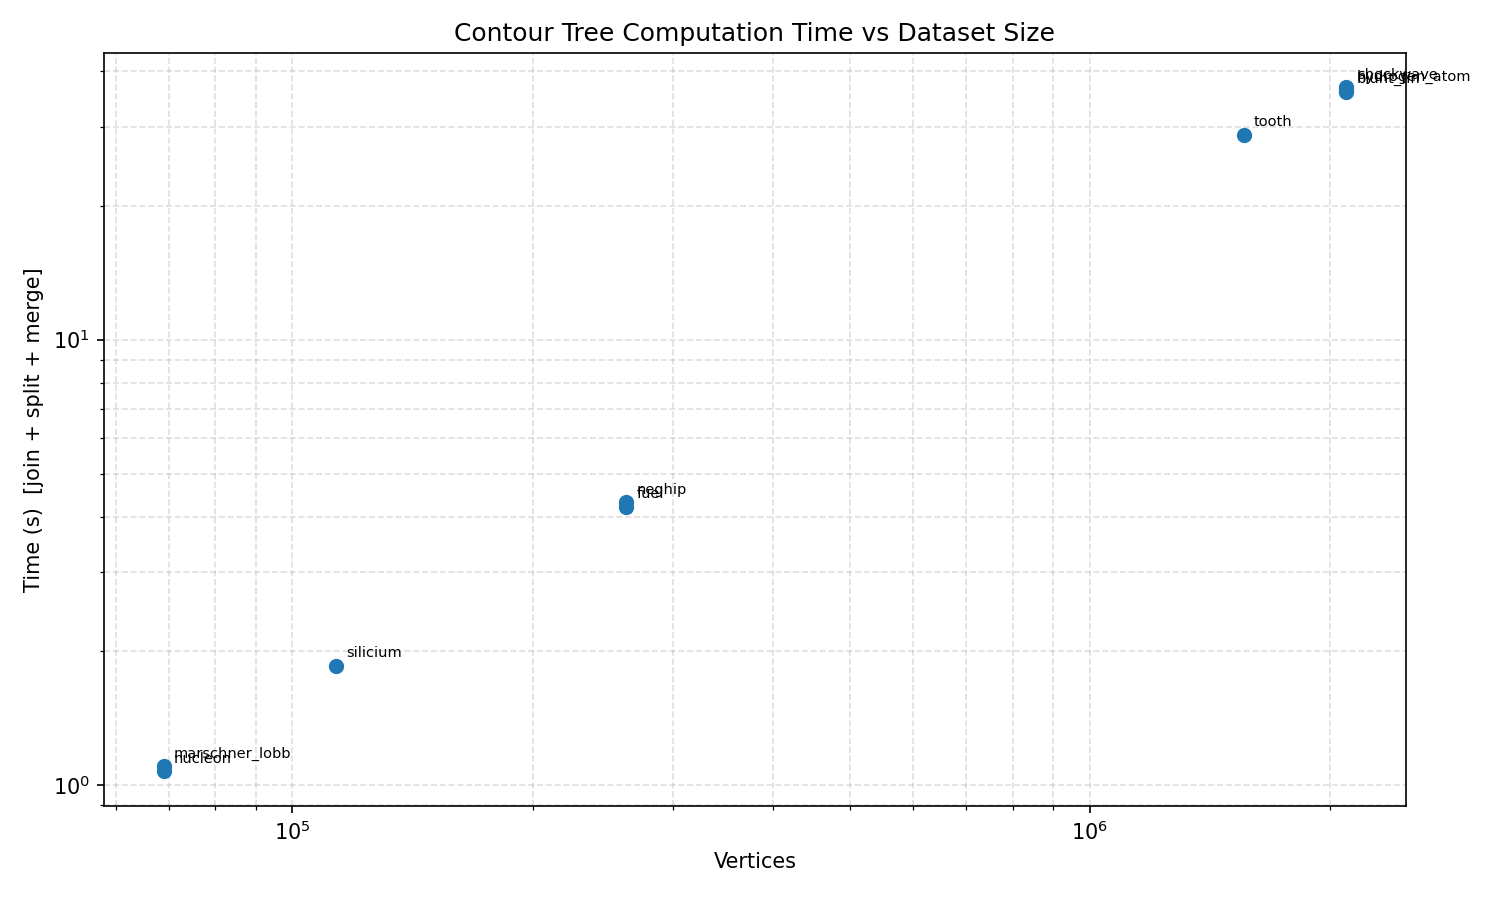
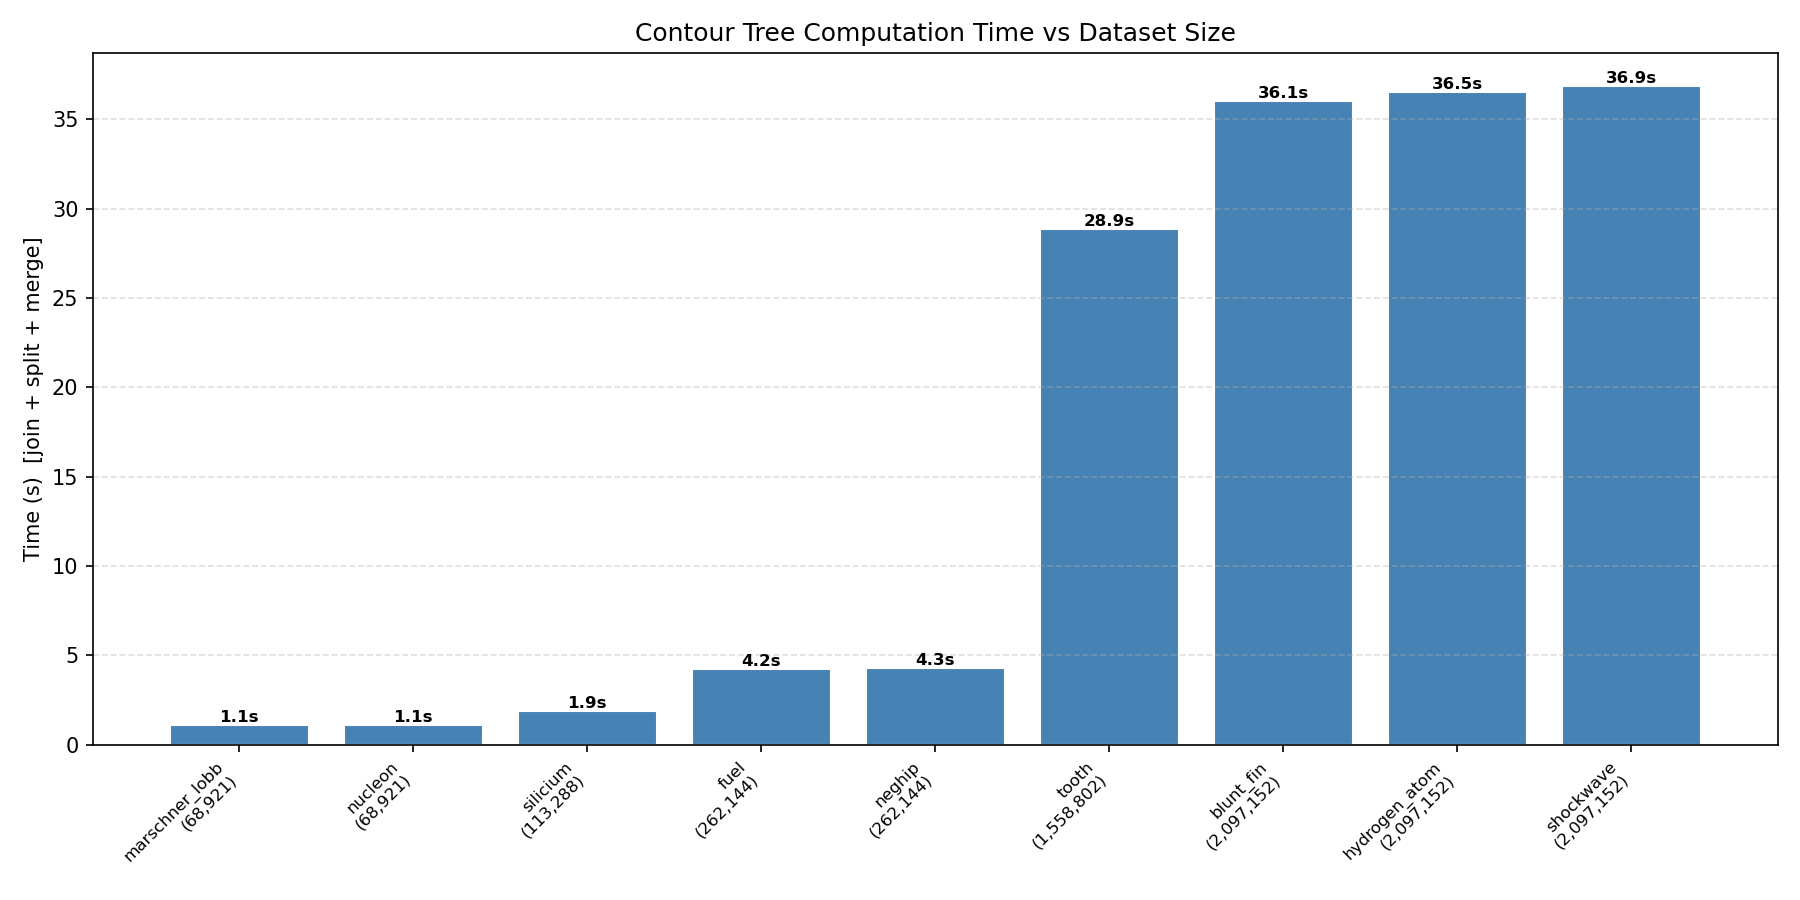
fix : replace log-log scatter with bar chart for clearer time-vs-size plot

diff --git a/src/benchmarks/timing_plots.py b/src/benchmarks/timing_plots.py
@@ -82,29 +82,33 @@ def collect_timings(max_verts=2_100_000, freudenthal=True):
 
 
 def plot_total_time_vs_vertices(results, out_path="output/time_vs_vertices.png"):
-    """Scatter plot of total computation time (join+split+merge) against
-    vertex count. Log-log scale with labelled points."""
+    """Bar chart of total computation time (join+split+merge) per dataset,
+    sorted by vertex count. Each bar is labelled with the vertex count."""
     import matplotlib
     matplotlib.use("Agg")
     import matplotlib.pyplot as plt
 
+    # sort by vertex count
+    results = sorted(results, key=lambda r: r["vertices"])
     names = [r["name"] for r in results]
     verts = [r["vertices"] for r in results]
     times = [r["t_join"] + r["t_split"] + r["t_merge"] for r in results]
 
-    fig, ax = plt.subplots(figsize=(10, 6))
-    ax.scatter(verts, times, s=40, zorder=3)
+    labels = [f"{n}\n({v:,})" for n, v in zip(names, verts)]
 
-    for i, name in enumerate(names):
-        ax.annotate(name, (verts[i], times[i]), fontsize=7,
-                    textcoords="offset points", xytext=(5, 4))
+    fig, ax = plt.subplots(figsize=(12, 6))
+    bars = ax.bar(range(len(results)), times, color="steelblue", edgecolor="white")
 
-    ax.set_xscale("log")
-    ax.set_yscale("log")
-    ax.set_xlabel("Vertices")
+    # time label above each bar
+    for bar, t in zip(bars, times):
+        ax.text(bar.get_x() + bar.get_width() / 2, bar.get_height(),
+                f"{t:.1f}s", ha="center", va="bottom", fontsize=8, fontweight="bold")
+
+    ax.set_xticks(range(len(results)))
+    ax.set_xticklabels(labels, fontsize=8, rotation=45, ha="right")
     ax.set_ylabel("Time (s)  [join + split + merge]")
     ax.set_title("Contour Tree Computation Time vs Dataset Size")
-    ax.grid(True, which="both", ls="--", alpha=0.4)
+    ax.grid(axis="y", ls="--", alpha=0.4)
     fig.tight_layout()
 
     os.makedirs(os.path.dirname(out_path), exist_ok=True)